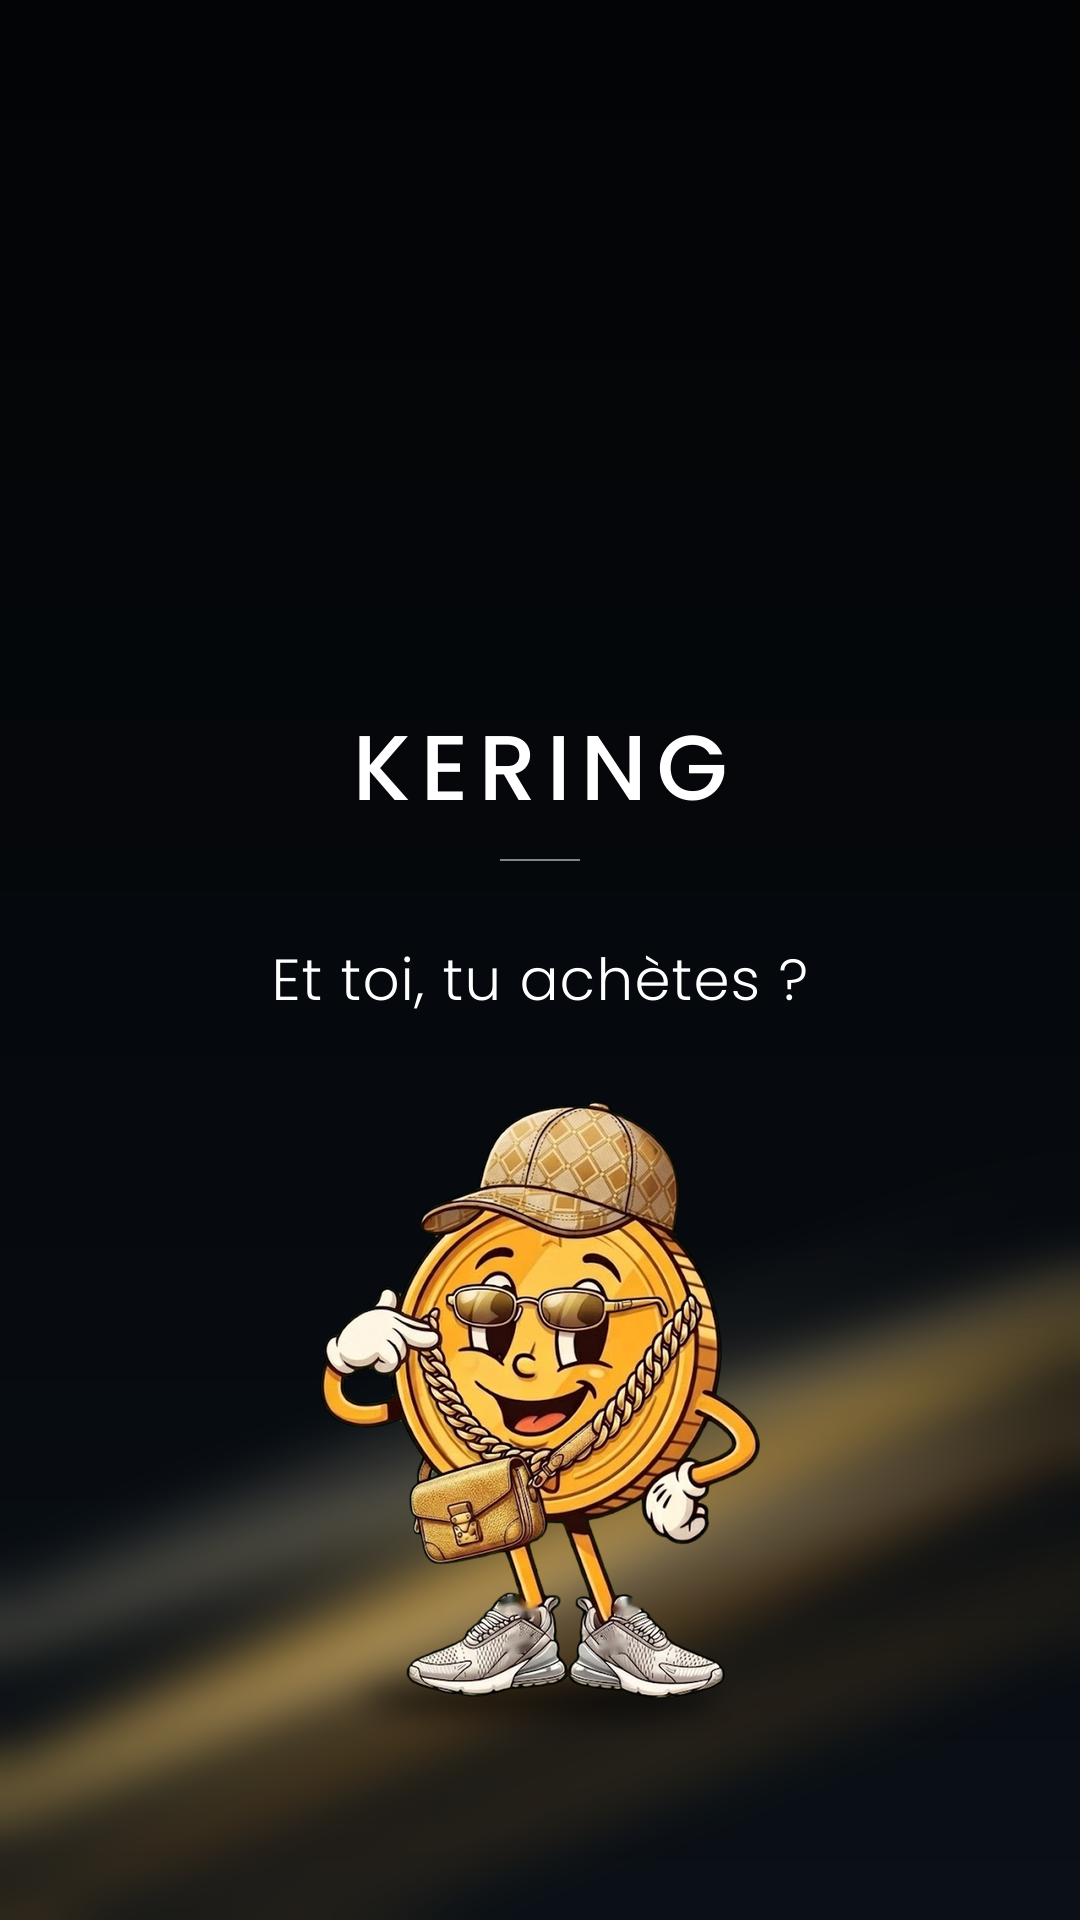
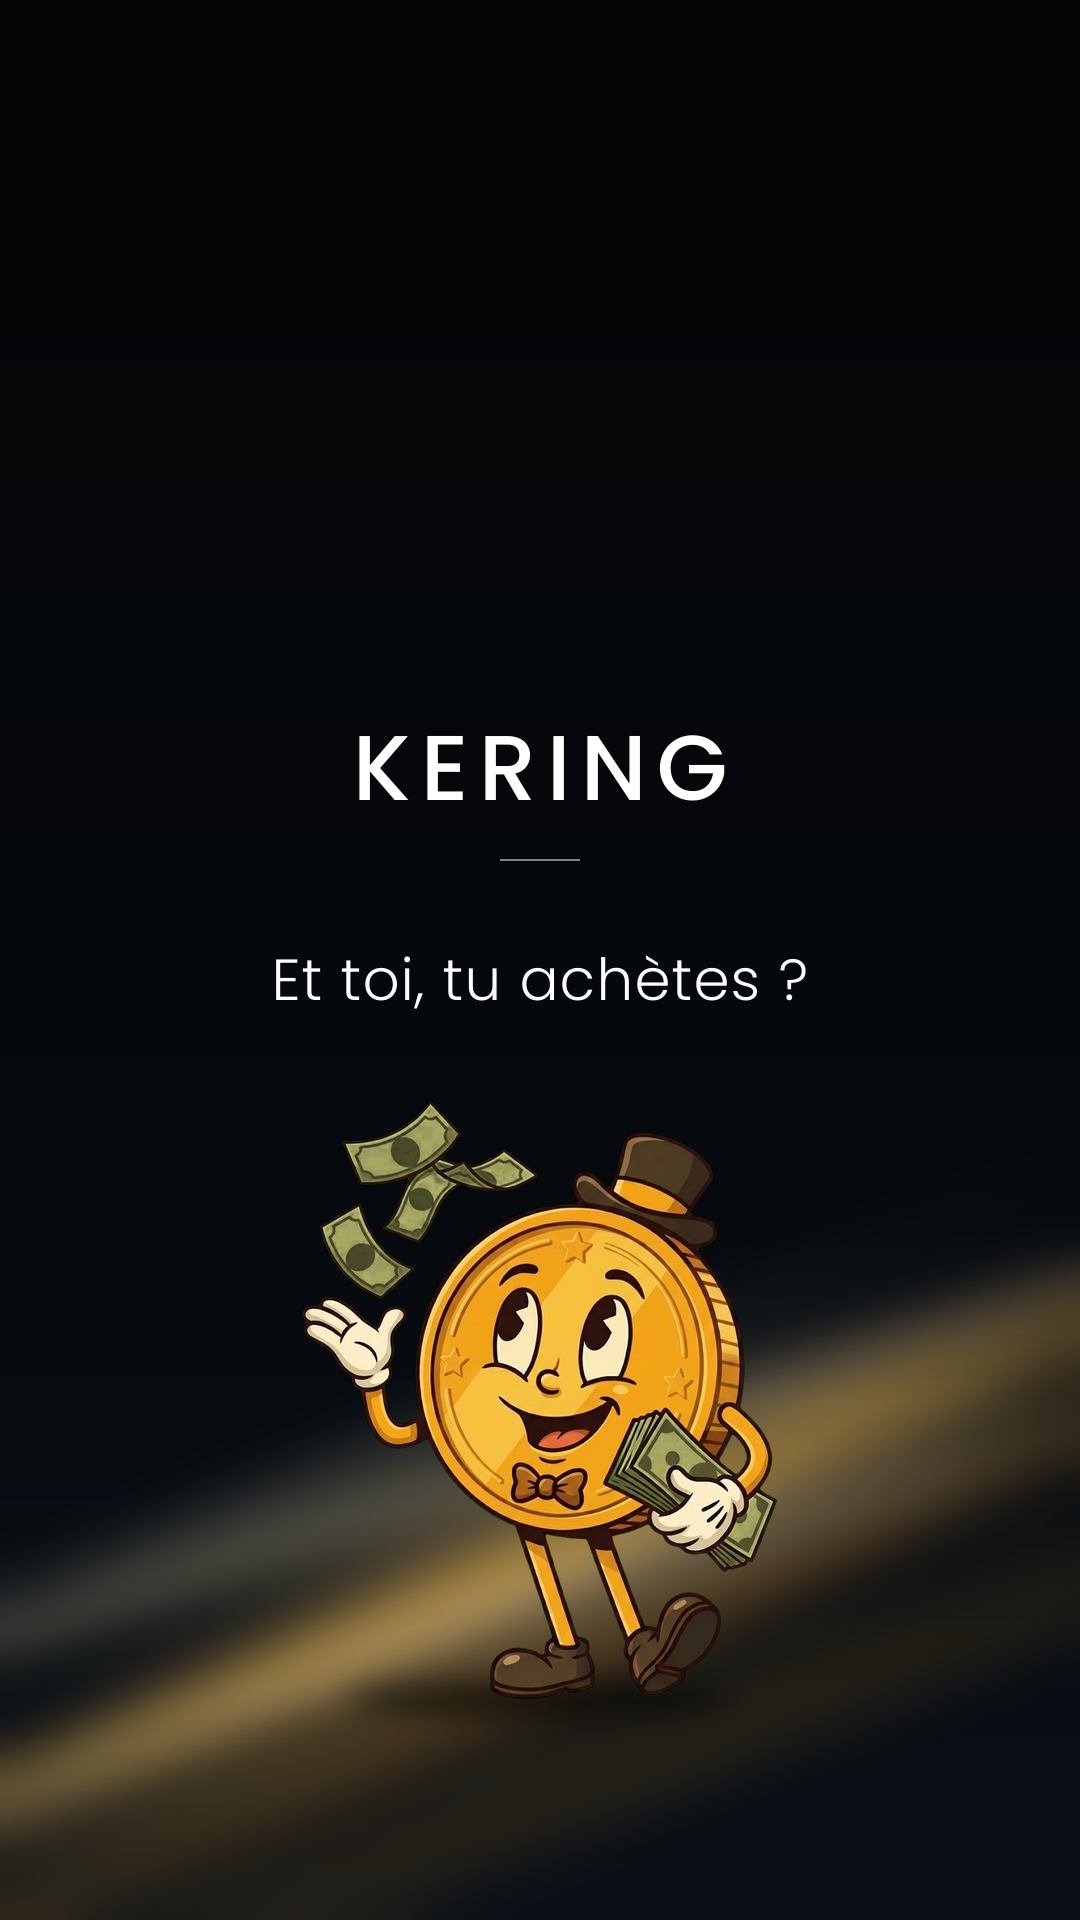
Kering : couverture avec Mister Coin classique et son sac de billets
Claude-Session: https://claude.ai/code/session_01VFT2ZKYV9NwmFvCsfcTKi7

Changed region(s): [[0.275, 0.5625, 0.7333, 0.9062]]

diff --git a/episodes/2026-10-27_kering/couverture.py b/episodes/2026-10-27_kering/couverture.py
@@ -1,5 +1,5 @@
 """Couverture Kering, DA historique de la ligne fil rouge : fond noir, rubans de lumière aux couleurs du sujet (or, champagne, brun),
-nom épuré + « Et toi, tu achètes ? », Mister Coin en tenue bling-bling."""
+nom épuré + « Et toi, tu achètes ? », Mister Coin classique avec son sac de billets."""
 import cairo, math, numpy as np, sys, os
 HERE = os.path.dirname(os.path.abspath(__file__)); ROOT = os.path.abspath(os.path.join(HERE, '..', '..'))
 sys.path.insert(0, f'{ROOT}/lib'); sys.path.insert(0, f'{ROOT}/mister_coin')
@@ -22,7 +22,7 @@ for slot, name in ((False, 'couverture.png'), (True, 'couverture_emplacement_log
     path = f'{HERE}/{name}'; cards.card("KERING", slot, path)
     if slot: continue
     import rig
-    im = Image.open(path).convert('RGBA'); ch = rig.character("bling_frime", 0, False, 0, 0, 0); ch = ch.crop(ch.getbbox())
+    im = Image.open(path).convert('RGBA'); ch = rig.character("billets", 0, False, 0, 0, 0); ch = ch.crop(ch.getbbox())
     h = 600; ch = ch.resize((int(ch.width*h/ch.height), h), Image.LANCZOS); cx, feet = 540, 1700
     sh = Image.new('L', (W, H), 0); ImageDraw.Draw(sh).ellipse((cx-ch.width*.4, feet-16, cx+ch.width*.4, feet+14), fill=170)
     im.paste((0, 0, 0, 255), (0, 0), sh.filter(ImageFilter.GaussianBlur(14)))
